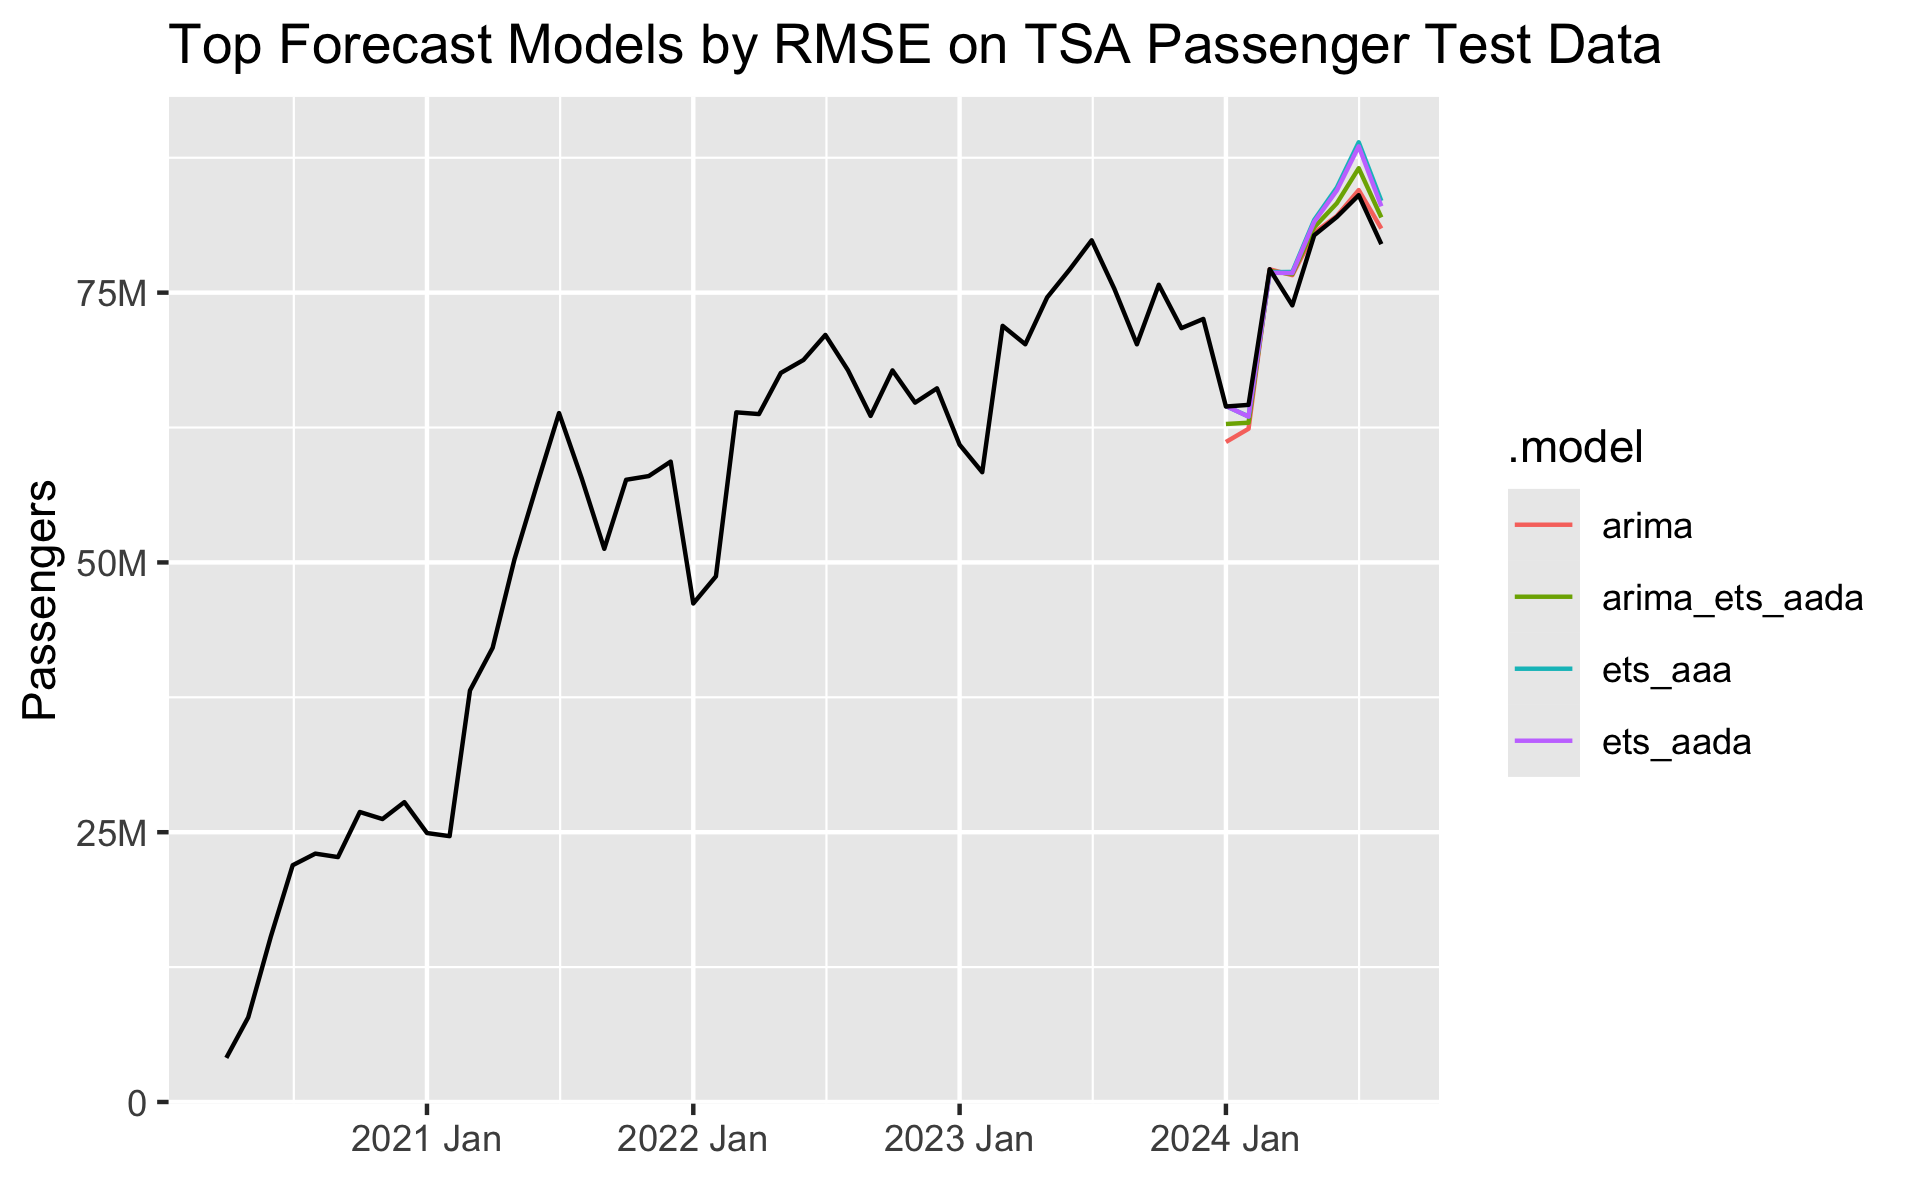
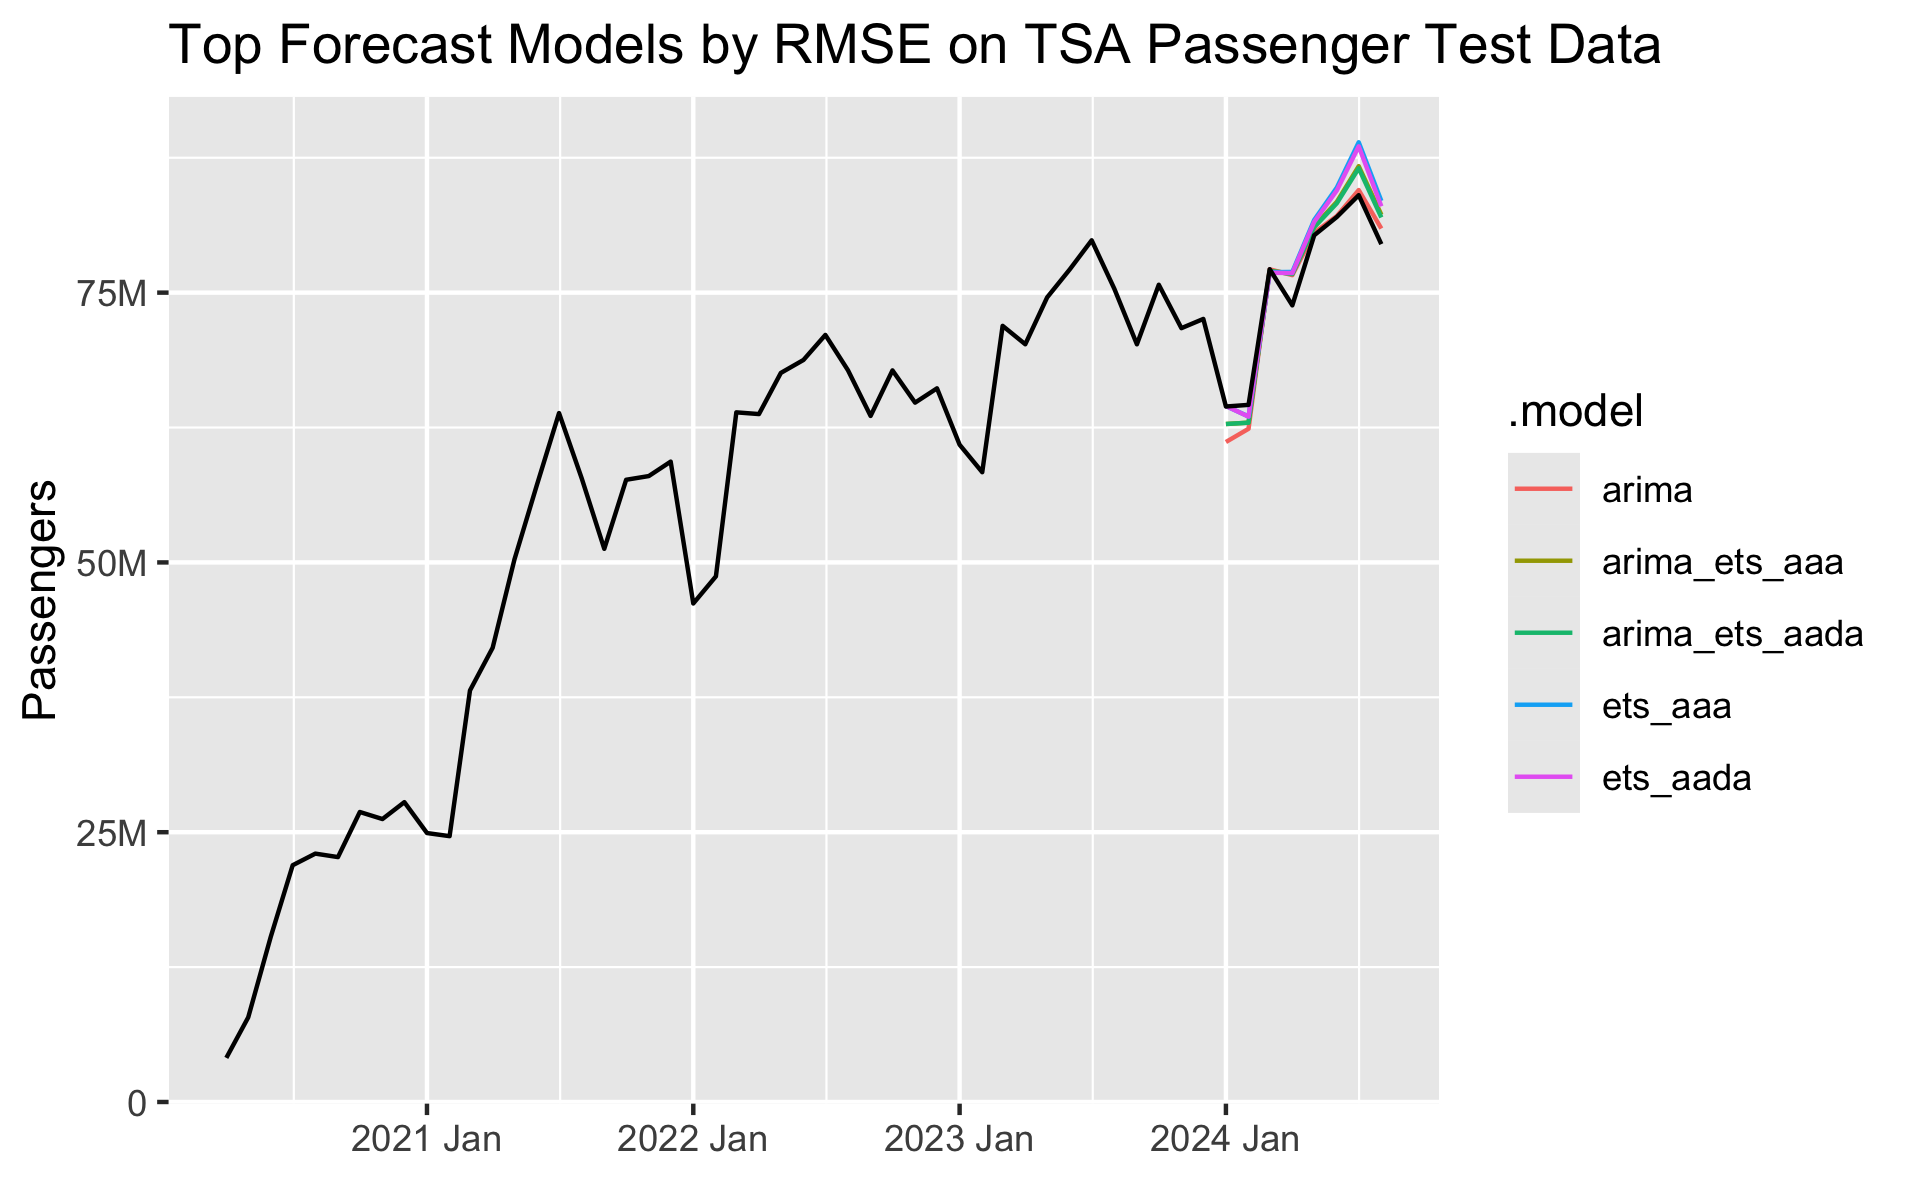
Working on forecasting TSA data with R

Changed region(s): [[0.7718, 0.3353, 0.988, 0.7011], [0.6792, 0.1219, 0.741, 0.2134]]

diff --git a/projects/tsa/forecasting-tsa-data-with-r/forecasting-tsa-data-with-r.html b/projects/tsa/forecasting-tsa-data-with-r/forecasting-tsa-data-with-r.html
@@ -13,14 +13,13 @@
             
         <!-- TODO:
             Show the results of just ARIMA and ETS first and then show how adding combined improves results.
-            Add coauthor name of the textbook
             Check alt text
 
         -->
 
             <p>If we want to create a forecast in R for the TSA Passenger data to predict passenger volumes in the future, we can use the <a href="https://tidyverts.org">tidyverts packages</a> `fable`, `tsibble`, and `feasts`.</p>
 
-            <p>These packages apply <a href="https://r4ds.had.co.nz/tidy-data.html">tidy data principles</a> to time series data and forecasting. They were coauthored by the forecasting great <a href="https://robjhyndman.com">Rob Hyndman</a>. If you are interested in learning more about forecasting, I highly recommend Rob Hyndman and George Athanasopoulos's fantastic textbook: <a href="https://otexts.com/fpp3/">Forecasting: Principles and Practice (3rd Edition)</a>, which uses these tidyverts packages and workflows.</p>
+            <p>These packages apply <a href="https://r4ds.had.co.nz/tidy-data.html">tidy data principles</a> to time series data and forecasting. They were coauthored by the forecasting great <a href="https://robjhyndman.com">Rob Hyndman</a>. If you are interested in learning more about forecasting, I highly recommend Rob Hyndman and George Athanasopoulos's fantastic textbook: <a href="https://otexts.com/fpp3/">Forecasting: Principles and Practice (3rd Edition) (FPP3)</a>, which uses these tidyverts packages and workflows.</p>
             
             <h2>Plotting the History</h2>
                 <p>The historical TSA Passenger data that we have looks like this:</p>
@@ -34,18 +33,59 @@
             <h2>Evaluating Models with a Train/Test Split</h2>
                 <p>The <code>fable</code> package provides several time series models to choose from. We can evaluate which models perform the best by breaking our data into separate train/test sets. We then fit each model on the training data, generate a forecast from each model over the test set time period, and we evaluate each model's forecast against our test set to measure accuracy.</p>
                 
-                <p></p>
-
-                <!-- <img src="images/train-test-model-accuracy.png" alt="Terminal output of forecast model results." class="responsive" width="80%"> -->
+                <p>We'll start with <a href="https://otexts.com/fpp3/simple-methods.html">four simple baseline models</a> that allow us to compare our more complex models against simple but still effective baselines. We'll use the <code>ARIMA</code> function to find the best fitting ARIMA model, and we'll try four different ETS models. We know that trend and seasonality is likely to continue, so we will limit ourselves to just these ETS models, but you could try others. Alternatively, the <code>ETS()</code> function can select the best-fitting ETS model for you, just like the <code>ARIMA()</code> function.</p>
                 
+                <pre><code class="language-r">
+                    fit <- train |> model(
+                        # Baseline models
+                        mean = MEAN(passengers),
+                        naive = NAIVE(passengers),
+                        drift = NAIVE(passengers ~ drift()),
+                        snaive = SNAIVE(passengers),
+                        # tslm = TSLM(passengers ~ trend() + season()),
+                        
+                        # Auto-ARIMA and Auto-ETS models
+                        arima = ARIMA(passengers, stepwise=FALSE, approximation=FALSE),
+                        # ets = ETS(passengers),
                 
-                <p>The plain ARIMA model performs the best in terms of RMSE. This is using the Auto-ARIMA function that finds the best fitting ARIMA model to the data. The 4th and 5th best are the ETS models with additive error, trend (damped or not), and seasonality. The 2nd and 3rd best are combined models that average the results of the ARIMA and ETS(A, Ad, A) models and ARIMA and ETS(A, A, A) models.</p>
+                        # Specify ETS models
+                        ets_aaa = ETS(passengers ~ error('A') + trend('A') + season('A')),
+                        ets_aada = ETS(passengers ~ error('A') + trend('Ad') + season('A')),
+                        ets_aam = ETS(passengers ~ error('A') + trend('A') + season('M')),
+                        ets_aadm = ETS(passengers ~ error('A') + trend('Ad') + season('M'))                
+                </code></pre>
 
-                <p>In this case the combined models slightly underperform the plain ARIMA model, but in many cases we can improve our accuracy by <a href="https://otexts.com/fpp3/combinations.html">combining two or more models.</a></p>
-                <img src="images/train-test-model-accuracy.png" alt="Terminal output of forecast model results." class="responsive" width="80%">
+                <img src="images/train-test-model-accuracy-initial.png" alt="Terminal output of initial forecast model results." class="responsive" width="80%">
+                
+                <p>Thankfully our ARIMA and ETS model do outperform our baselines. The <code>arima</code> model performs the best and <code>ets_aada</code> is second. The models with multiplicative seasonality don't perform as well and actually underperform some of our baselines.</p>
+                
+                <p>One cool feature of <code><a href="https://fable.tidyverts.org">fable</a></code> is that it makes it very easy to <a href="https://otexts.com/fpp3/combinations.html">combine or ensemble multiple forecast models.</a> Hyndman and Athanasopoulos describe this as such:</p>
+
+                <blockquote class="highlighted">"The results have been virtually unanimous: combining multiple forecasts leads to increased forecast accuracy. In many cases one can make dramatic performance improvements by simply averaging the forecasts."</blockquote>
+
+                <p>Based on our results, we'll try creating combined forecasts of the <code>arima</code> model with the <code>ets_aada</code> and <code>ets_aaa</code> models.</p>
+
+                <pre><code class="language-r">
+                    # Create combined models
+                    fcst <- fit |> mutate(
+                        arima_ets_aaa = (arima + ets_aaa) / 2,
+                        arima_ets_aada = (arima + ets_aada) / 2,
+                    ) |> forecast(h = months_to_forecast)
+                    
+                    # View model forecast accuracy against test set
+                    accuracy(fcst, df) |>
+                        arrange(RMSE)
+                </code></pre>
+
+                <img src="images/train-test-model-accuracy-add-combos.png" alt="Terminal output of forecast model results when adding combination models." class="responsive" width="80%">
+                
+                <p>After adding in our two combined models, the plain ARIMA model still performs the best, but the two combined models are second and third.</p>
+                
+                <p>We can plot the forecasts from each model to see how they compare:</p>
+
                 <img src="images/train-test-top-forecast-models.png" alt="Line plot showing performance of top forecast models." class="responsive" width="80%">
 
-                <p>Based on these results we would likely pick the arima_ets_aada model for our final forecast. While the plain ARIMA model performed slightly better, we'd like to take advantage of the benefit of combining both ARIMA and ETS models - hopefully in the long term going forward that will perform better.</p>
+                <p>Based on these results, I would pick either the <code>arima</code> or the <code>arima_ets_aada</code> model. While the <code>arima</code> model is more accurate compared to the test set, over the long term I would probably prefer to use an ensemble model.</p>
                 
             <h2>Evaluating Models with Cross Validation</h2>
                 <p>Another approach to time series model evaluation is <a href="https://otexts.com/fpp3/tscv.html">cross validation</a>. This is a little different from cross validation you may have used in other machine learning contexts. With time series data, we start with an initial base set of historical data, fit our models, calculate forecasts, and measure accuracy. We then repeat adding one (or more) data point to the base historical data, repeating the model fitting, forecasting, and testing for each step with. In each step we're forecasting one or more steps out. Prof. Hyndman uses this visualization in his textbook</p>
@@ -55,10 +95,7 @@
                 <img src="images/cross-validation-forecast-error.png" alt="" class="responsive" width="80%">
             
             <h2>Final Forecast</h2>
-                <p></p>
-            
-            
-            
+                <p></p>           
                          
             <h2>Conclusions</h2>
                 <p></p>

diff --git a/main.css b/main.css
@@ -69,6 +69,13 @@ footer p {
     padding-bottom: 8px;
 }
 
+.highlighted {
+    background-color: #f0f0f0;
+    padding: 10px;
+    border-left: 5px solid #ccc;
+    margin-left: 20px;
+}
+
 .navbar {
     margin: 0;
     padding-top: 10px;
